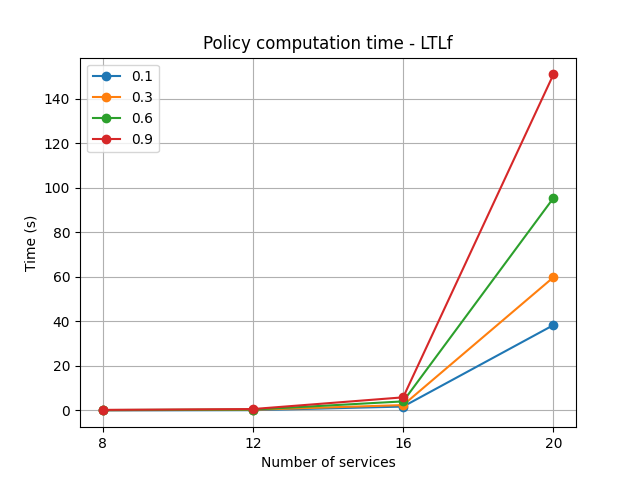
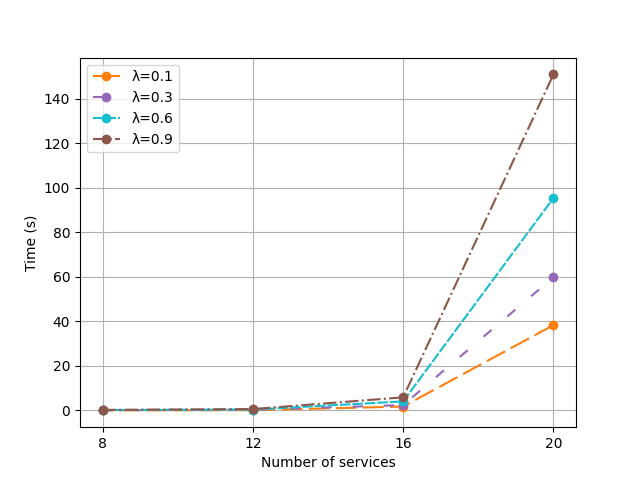
colors and linestyle

diff --git a/src/eval_utils/plot_results.py b/src/eval_utils/plot_results.py
@@ -99,9 +99,11 @@ if __name__ == "__main__":
 
         plt.figure(f"Policy computation time - LTLf - {case_study}")
         plt.title('Policy computation time - LTLf')
+        colors = ['tab:orange', 'tab:purple', 'tab:cyan', 'tab:brown']
+        line_styles = [(5, (10, 3)), (0, (5, 10)), (0, (5, 1)), 'dashdot']
         for gamma in time_pol_ltlf.keys():
             y_values = time_pol_ltlf[gamma]
-            plt.plot(services['ltlf'], y_values, '-o', label=gamma)
+            plt.plot(services['ltlf'], y_values, '-o', label=f'λ={gamma}', color=colors.pop(0), linestyle=line_styles.pop(0))
         plt.xticks(services['ltlf'])
         plt.xlabel('Number of services')
         plt.ylabel('Time (s)')
